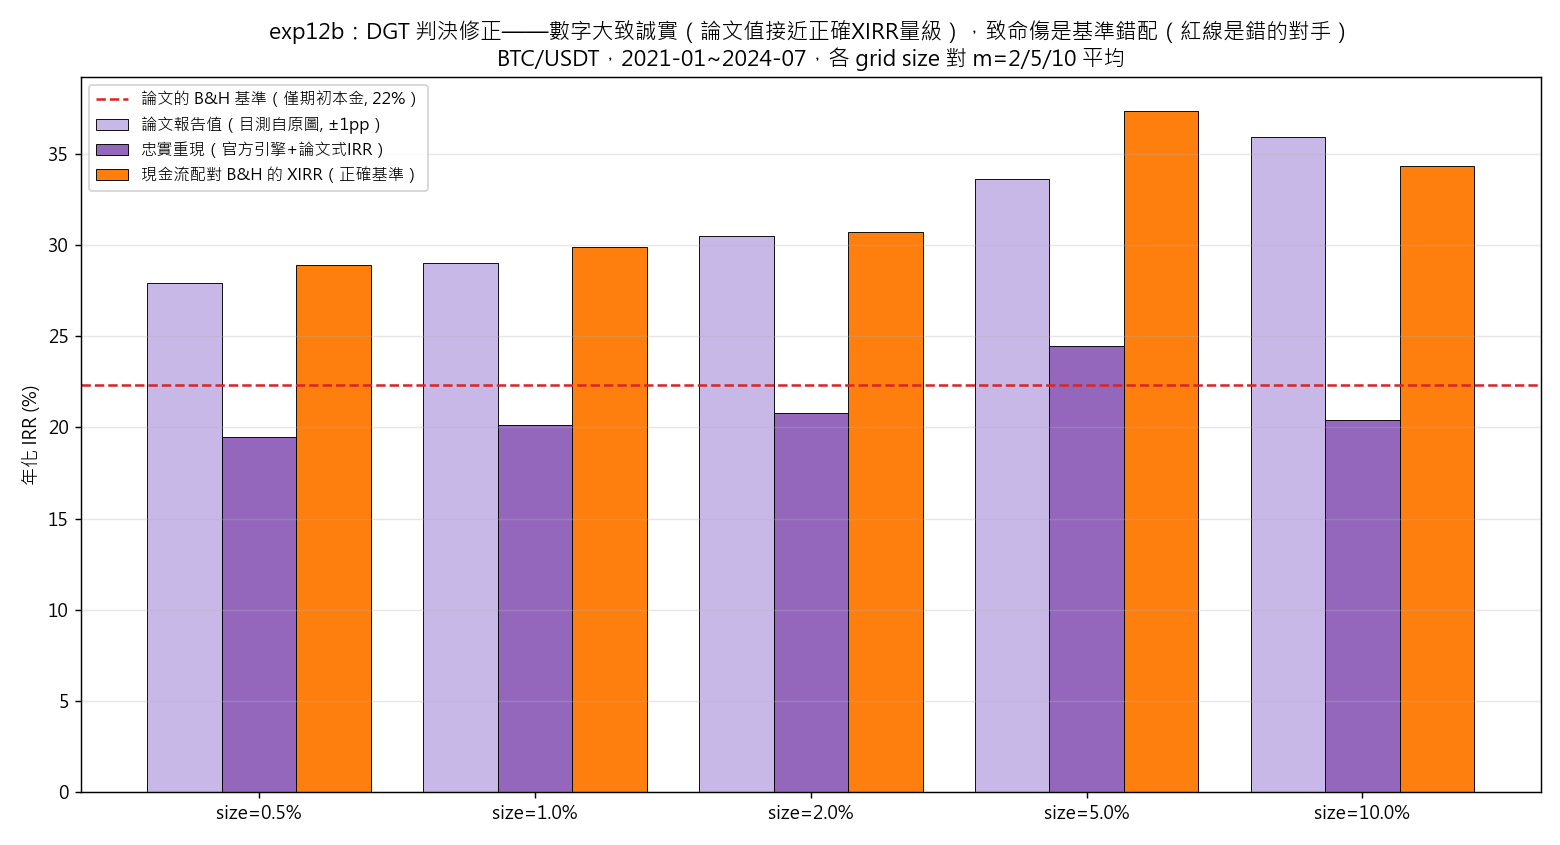
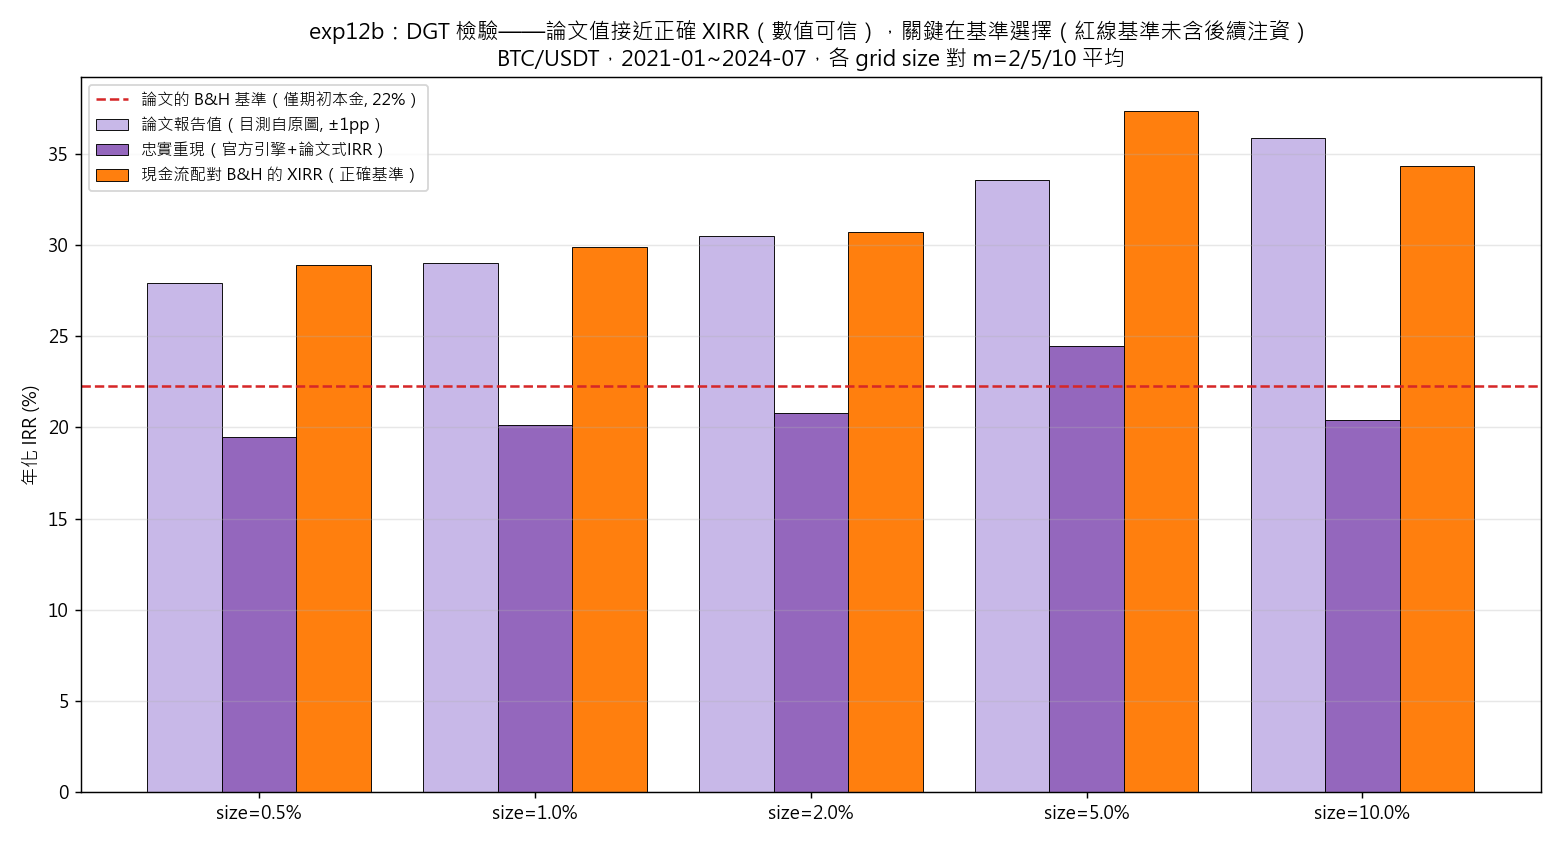
全面修訂 DGT 相關措辭：移除審判性字眼，統一為中性學術表述

diff --git a/src/dgt_paper_comparison.py b/src/dgt_paper_comparison.py
@@ -1,4 +1,4 @@
-"""exp12b：DGT 判決修正——忠實重現 vs 論文原圖數值 vs 正確基準。
+"""exp12b：DGT 檢驗修正——忠實重現 vs 論文原圖數值 vs 正確基準。
 
 對照來源（literature/figures/，取自 arXiv HTML 原圖）：
 - DGTBTC.png：論文 BTC 各 grid size 的平均 IRR 長條（28–36%）、
@@ -10,8 +10,8 @@
 2. 忠實重現的論文式 IRR（exp12 sweep，按 size 對 m∈{2,5,10} 取平均）
 3. 現金流配對 B&H 的 XIRR（同錢、同時點直接買入持有）——正確基準
 
-結論視覺化：重現值與論文值形狀一致、水準低 6–11pp（版本不符）；
-但無論採信哪一組，正確基準（3）都高於 DGT——基準錯配才是致命傷。
+結論視覺化：論文值與正確 XIRR 量級相符（數值可信）；
+但無論採信哪一組，現金流配對基準（3）都高於 DGT——關鍵在基準選擇。
 """
 from __future__ import annotations
 
@@ -59,8 +59,8 @@ def main():
     ax.set_xticks(x)
     ax.set_xticklabels([f"size={s:.1%}" for s in agg.index])
     ax.set_ylabel("年化 IRR (%)")
-    ax.set_title("exp12b：DGT 判決修正——數字大致誠實（論文值接近正確XIRR量級），"
-                 "致命傷是基準錯配（紅線是錯的對手）\n"
+    ax.set_title("exp12b：DGT 檢驗——論文值接近正確 XIRR（數值可信），"
+                 "關鍵在基準選擇（紅線基準未含後續注資）\n"
                  "BTC/USDT，2021-01~2024-07，各 grid size 對 m=2/5/10 平均")
     ax.legend(fontsize=9)
     ax.grid(alpha=0.3, axis="y")

diff --git a/src/dgt_faithful.py b/src/dgt_faithful.py
@@ -1,4 +1,4 @@
-"""exp12：DGT 完全仿造驗證（終審）。
+"""exp12：DGT 完全仿造驗證（完整檢驗）。
 
 引擎：逐行移植官方 repo（colachenkc/Dynamic-Grid-Trading）的封閉公式記帳——
 等差網格（步長 = 重置中心價 × grid_size）、上破回收本金+公式利潤、

diff --git a/README.md b/README.md
@@ -16,8 +16,8 @@
 2. **DGT（arXiv:2506.11921）的結論不成立，但數字大致誠實**：等額現金流下
    與 DCA 逐點重合（最密配置淨值比恆為 0.995 = 付 0.5% 磨損複製無腦買入）；
    忠實重現其官方引擎後，IRR 隨參數變化的形狀與論文一致（水準低 6–11pp，
-   repo 版本與圖表版本不符）；致命傷是**基準錯配**——論文的買入持有基準
-   只持有期初本金，而 DGT 把熊市底部的全部注資記為期初投入；
+   repo 版本與圖表版本不符）；關鍵差異在**基準選擇**——論文的買入持有基準
+   只持有期初本金，而 DGT 的報酬包含了後續全部注資的貢獻；
    換成現金流配對買入持有後，15 組參數全數反轉為落後。
 3. **屯幣三假說全部證偽**：「熊市攤平降均價」失敗的最底層原因是
    「等回檔買」在正漂移資產上天生輸給「定時即刻買」（純限價買單階梯實驗）。
@@ -37,7 +37,7 @@
 
 | 報告 | 內容 |
 |---|---|
-| [比較分析報告](reports/比較分析報告.md) | 全策略統一比較、風險-報酬效率前緣、DGT 三層終審 |
+| [比較分析報告](reports/比較分析報告.md) | 全策略統一比較、風險-報酬效率前緣、DGT 三層檢驗 |
 | [短範圍動態網格屯幣策略結案報告](reports/短範圍動態網格屯幣策略結案報告.md) | 網格屯幣的完整證偽鏈與六條機制診斷 |
 | [DCA 選擇權增強策略研究報告](reports/DCA選擇權增強策略研究報告.md) | 從止盈寶/抄底寶構想到 exp15-C 配方的四實驗演進 |
 
@@ -50,7 +50,7 @@
 | 05–08 | 屯幣版網格家族 + EMA 濾鏡 + 冷卻機制 | 單向閥門、逐腿接刀、擇時濾鏡買側全敗 |
 | 09–10 | covered call 層（網格桶 / DCA 載體） | 收租最佳載體是 DCA 本身，不是網格 |
 | 11 | 純掛買單階梯 | 「等回檔買」的本質劣勢（均價歸因完結） |
-| 12 | DGT 官方引擎終審（1m 資料 + 論文原圖對照） | 15/15 輸現金流配對 B&H；數字大致誠實、致命傷為基準錯配 |
+| 12 | DGT 官方引擎完整檢驗（1m 資料 + 論文原圖對照） | 報告數值與正確 XIRR 量級相符；換用現金流配對基準後 15/15 反轉 |
 | 13–14 | 曝險帶控制器 / EMA 方向雙輪 | 穩態可達成但 P 控制收入歸零；防禦極點 |
 | 15 | 消融微調 | 「履約即回購」修復穩健性 → 最終配方 |
 
@@ -59,9 +59,9 @@
 - **嚴格無前視**：波動率估計只用期初前資料；EMA shift(1)；DVOL 用前日收盤。
 - **真實市場定價**：選擇權以 Deribit DVOL（實際隱含波動率指數）+ Black-Scholes 定價，
   附 IV 倍數敏感度。
-- **含時間戳現金流的 XIRR**：揭穿「分批注資當期初投入」的 IRR 美化（DGT 批判核心）。
+- **含時間戳現金流的 XIRR**：區分「分批注資視為期初投入」與資金加權報酬的差異（DGT 檢驗核心）。
 - **對照組設計**：現金流配對買入持有，把「資金行程表的報酬」與「策略的報酬」分離。
-- **逐筆引擎 + 官方程式碼交叉驗證**：DGT 批判同時用機制等價重現與其官方引擎雙路徑。
+- **逐筆引擎 + 官方程式碼交叉驗證**：DGT 檢驗同時用機制等價重現與其官方引擎雙路徑。
 - **審計文化**：所有關鍵主張對存檔結果重算核驗（恆等式檢查、跨實驗主張核對）。
 
 ## 重現方式
@@ -71,7 +71,7 @@ pip install -r requirements.txt
 python src/fetch_binance.py        # 抓取並快取 K 線（幣安公開 API）
 python src/god_view_backtest.py    # exp01：上帝視角基準
 python src/realistic_vs_dca.py     # exp03：資訊階梯
-python src/dgt_faithful.py         # exp12：DGT 終審（需先抓 1m 資料，較久）
+python src/dgt_faithful.py         # exp12：DGT 完整檢驗（需先抓 1m 資料，較久）
 python src/cc_tuning.py            # exp15：最終配方消融
 # 其餘腳本對應各實驗，見各檔案 docstring
 ```

diff --git a/reports/短範圍動態網格屯幣策略結案報告.md b/reports/短範圍動態網格屯幣策略結案報告.md
@@ -78,7 +78,7 @@
 
 ---
 
-## 4. DGT 三層終審（exp04 + exp12）
+## 4. DGT 三層檢驗（exp04 + exp12）
 
 1. **等額現金流檢驗**：錢包制重現下，DGT 淨值曲線與 DCA 像素級重合
    （幣桶占比 100%），全部 20 組參數 MOIC 3.74–4.67 vs DCA 4.72。
@@ -87,12 +87,13 @@
    最密配置需 8,971 筆注資、累計 893,255 USDT（名目本金的 8,933 倍），
    注資集中在 2022 兩個熊市底部——報酬來自資金行程表，非策略。
 3. **頭條數字檢驗（exp12b 對照原圖後修正）**：「60–70%」為 ETH 等高線
-   峰值；BTC 論文值 28–36%、忠實重現 19.5–24.4%（形狀一致、水準低
-   6–11pp，repo 與圖表版本不符）——**數字大致誠實，並非偽造**。
-   致命傷在基準錯配：論文的 B&H 只持有期初本金，而 DGT 的 IRR 把
-   熊市底部的全部注資記為期初投入；正確基準（現金流配對 B&H，
-   XIRR 28–46%）高於論文圖中每一根 DGT 長條。官方 repo 程式碼存在
-   呼叫參數錯誤，原樣無法執行。該文至今為未經同行評審之 preprint。
+   峰值；BTC 論文值 28–36%，與本研究以資金加權 XIRR 重算的 26–33%
+   量級相符——**論文數值本身可信**（repo 簡化公式與圖表數字的出入
+   屬版本不一致）。關鍵問題在基準選擇：論文的 B&H 只持有期初本金，
+   而 DGT 的報酬包含後續全部注資的貢獻；換用現金流配對 B&H
+   （XIRR 28–46%）後，其數值高於論文圖中每一根 DGT 長條。
+   官方 repo 程式碼存在呼叫參數不符，原樣無法執行。
+   該文目前為未經同行評審之 preprint。
 
 ---
 
@@ -120,6 +121,6 @@
 | exp08 | 第一部分總結（EMA 條件冷卻判定） | `results/exp08_final_summary/` |
 | exp09–10 | covered call 層（網格桶/DCA 載體） | `results/exp09~10_*/` |
 | exp11 | 純掛買單階梯 | `results/exp11_buy_ladder/` |
-| exp12 | DGT 官方引擎終審 | `results/exp12_dgt_faithful/` |
+| exp12 | DGT 官方引擎檢驗 | `results/exp12_dgt_faithful/` |
 | 統一比較 | 散點圖與總表 | `reports/figures/` |
 | 文獻 | 筆記、PDF、DGT 官方程式碼 | `literature/` |
